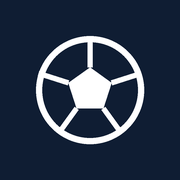
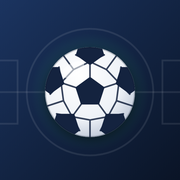
Nuevo icono de la app: balón con relieve sobre campo azul noche
Claude-Session: https://claude.ai/code/session_01RYfkN7HCjuAv5jEHR63Rcb

diff --git a/docs/index.html b/docs/index.html
@@ -8,6 +8,7 @@
 <meta name="apple-mobile-web-app-status-bar-style" content="black-translucent">
 <title>Alevín 1º Año · Grup 2</title>
 <link rel="manifest" href="manifest.webmanifest">
+<link rel="icon" type="image/svg+xml" href="icon.svg">
 <link rel="icon" type="image/png" href="favicon.png">
 <link rel="apple-touch-icon" href="apple-touch-icon.png">
 <meta name="apple-mobile-web-app-title" content="Alevín CCE">
@@ -37,7 +38,7 @@ a{color:inherit}
 /* barra superior */
 .top{background:var(--night);color:#fff;padding:calc(10px + env(safe-area-inset-top)) 16px 12px;position:sticky;top:0;z-index:20}
 .top-row{display:flex;align-items:center;gap:12px;max-width:760px;margin:0 auto}
-.comp-logo{width:36px;height:36px;border-radius:10px;background:var(--night-2);display:grid;place-items:center;flex:none}
+.comp-logo{width:38px;height:38px;border-radius:10px;flex:none;box-shadow:0 0 0 1px rgba(255,255,255,.08)}
 .comp-logo svg{width:22px;height:22px}
 .top h1{font:700 19px/1.1 var(--cond);letter-spacing:.2px}
 .top p{font-size:12.5px;color:var(--night-ink);margin-top:2px}
@@ -204,7 +205,7 @@ nav .crest{width:24px;height:24px}
 <body>
 <header class="top">
   <div class="top-row">
-    <div class="comp-logo" aria-hidden="true"><svg viewBox="0 0 24 24" fill="none" stroke="#fff" stroke-width="1.7"><circle cx="12" cy="12" r="9"/><path d="m12 7 3.8 2.8-1.5 4.4H9.7L8.2 9.8z" fill="#fff"/><path d="M12 7V3.2M15.8 9.8l3.6-1.2M14.3 14.2l2.3 3.1M9.7 14.2l-2.3 3.1M8.2 9.8 4.6 8.6"/></svg></div>
+    <img class="comp-logo" src="icon-192.png" alt="" aria-hidden="true">
     <div class="grow"><h1>Alevín 1º Año</h1><p>Primera FFCV Alicante · Grup 2</p></div>
     <button class="refresh" id="refresh" aria-label="Forzar actualización"><span id="upd-txt"></span><svg viewBox="0 0 24 24"><path d="M20 11a8 8 0 1 0-2.3 5.7"/><path d="M20 4v7h-7"/></svg></button>
   </div>

diff --git a/docs/sw.js b/docs/sw.js
@@ -1,5 +1,5 @@
 // Service worker: la app abre aunque no haya conexión, con los últimos datos vistos.
-const CACHE = "alevin-v1";
+const CACHE = "alevin-v2";
 const BASICO = ["./", "./index.html", "./manifest.webmanifest", "./icon-192.png", "./icon-512.png"];
 
 self.addEventListener("install", e => {
